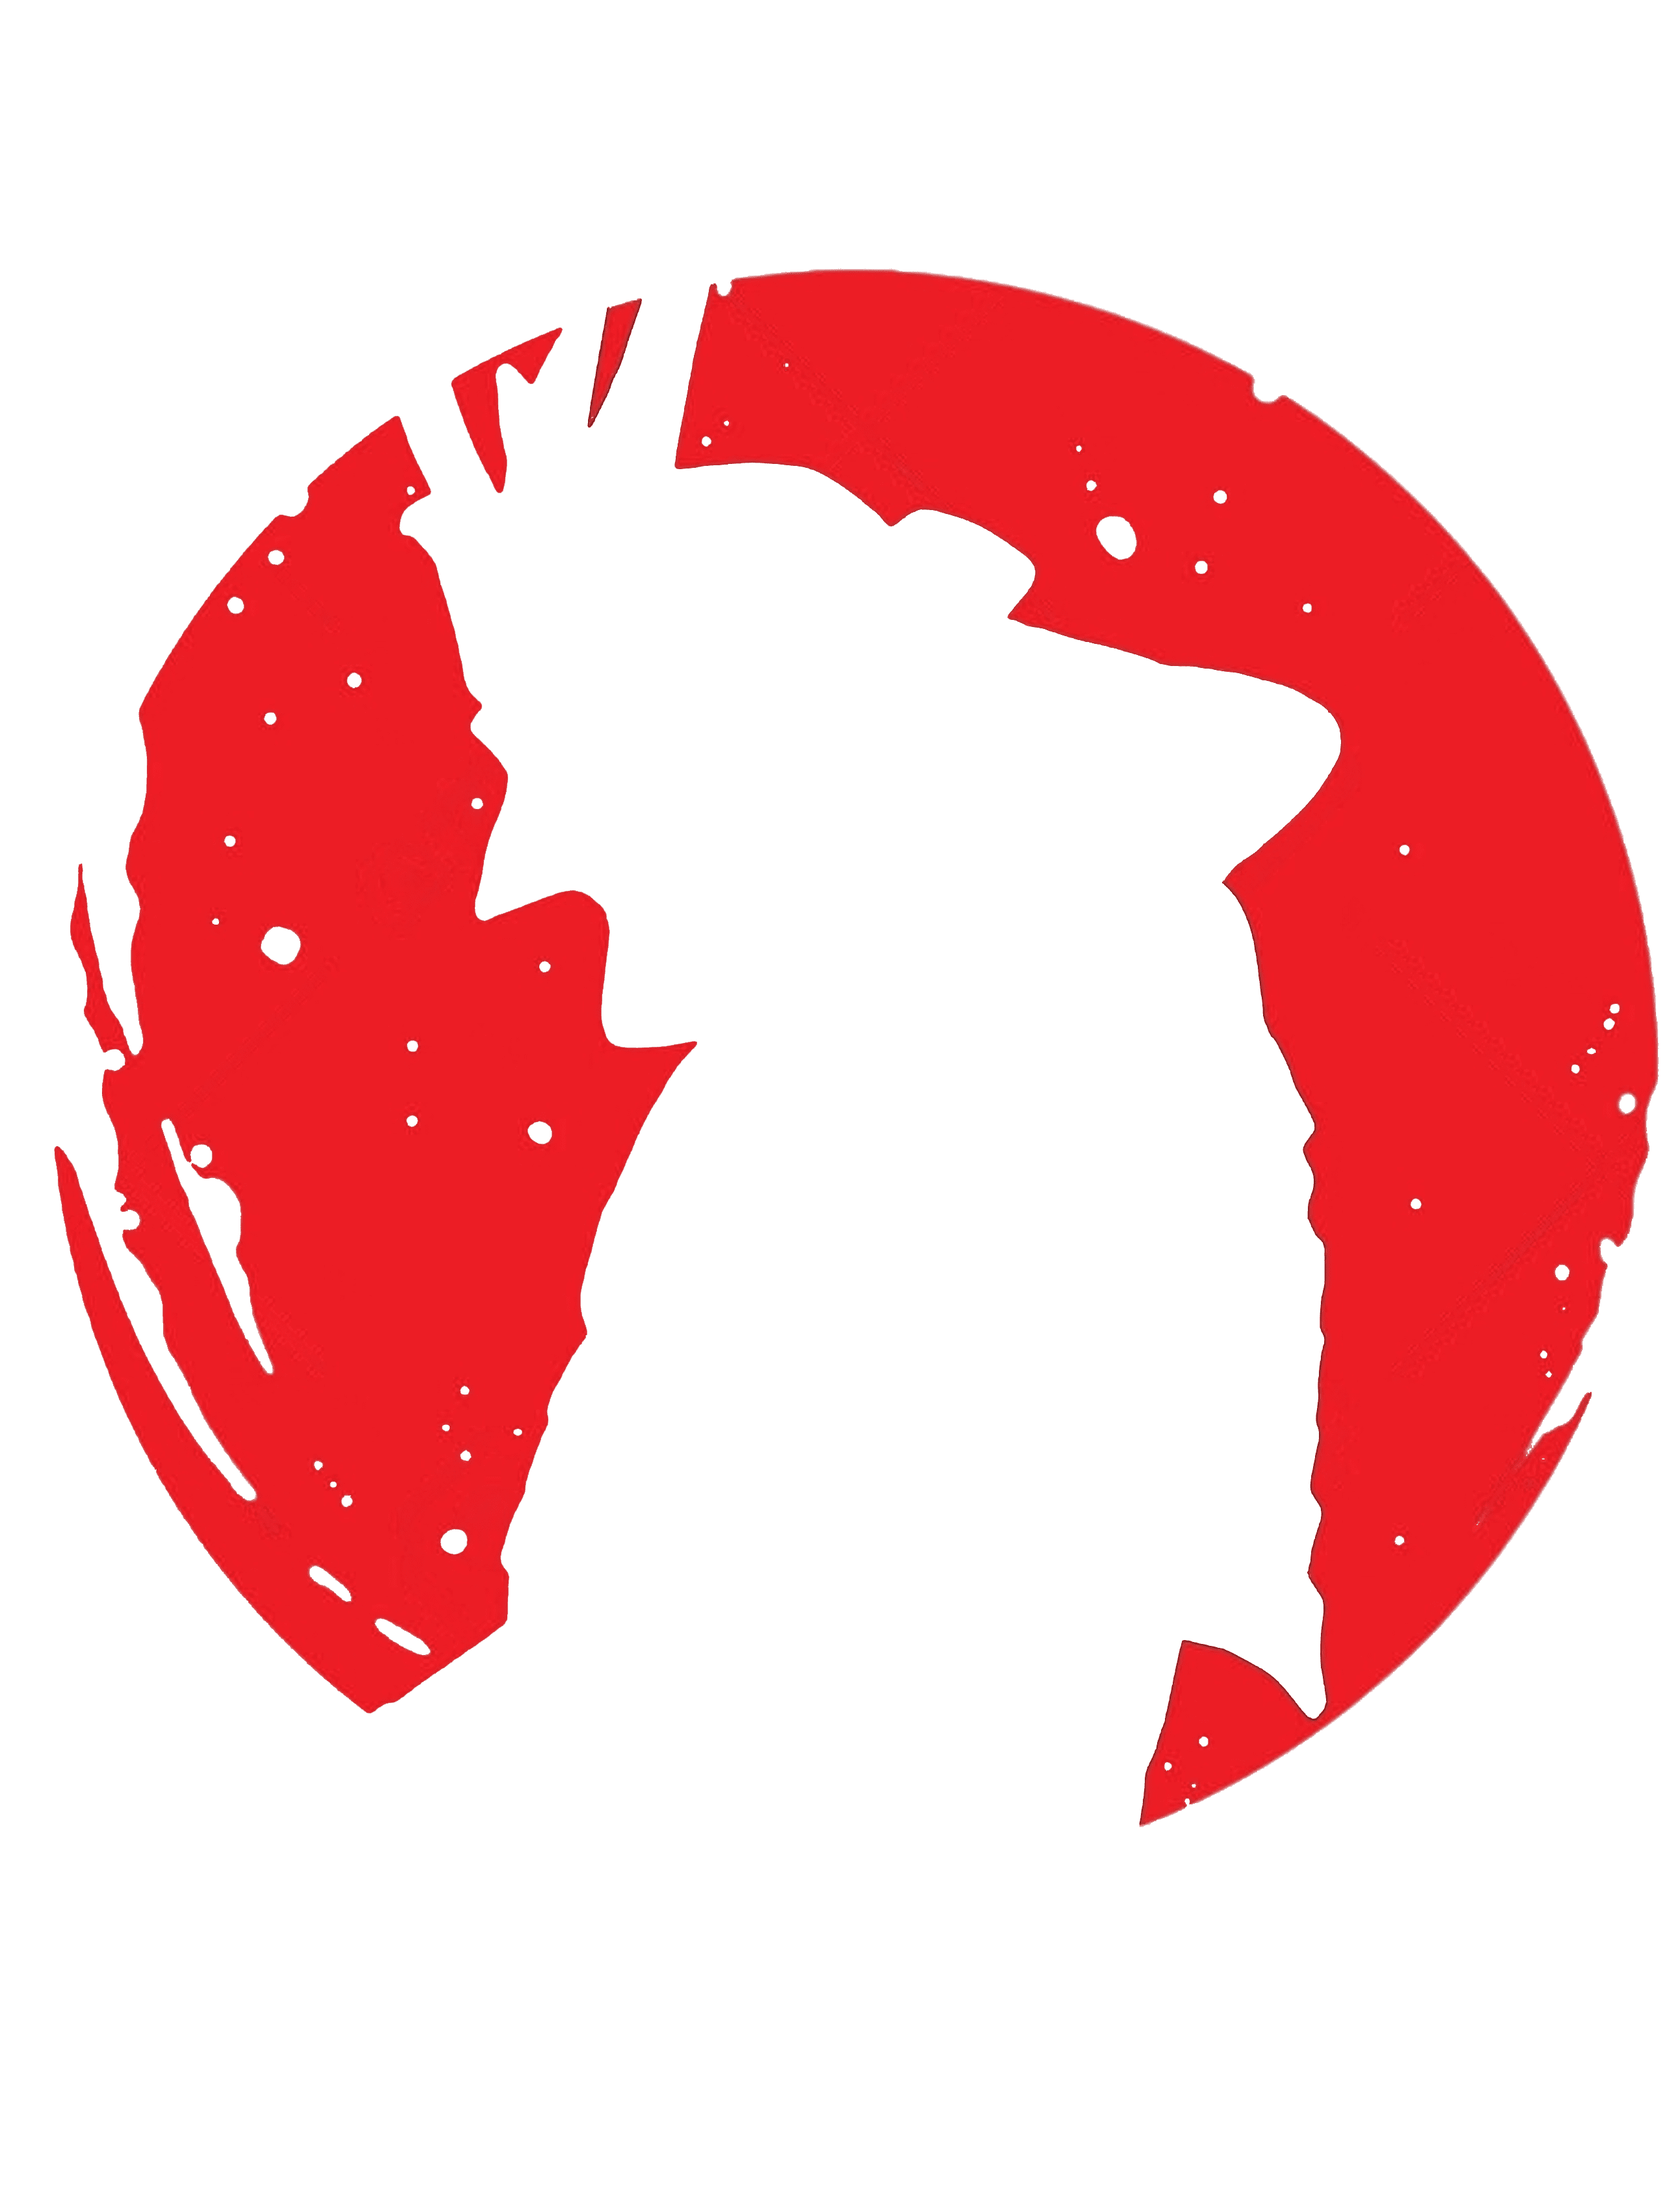
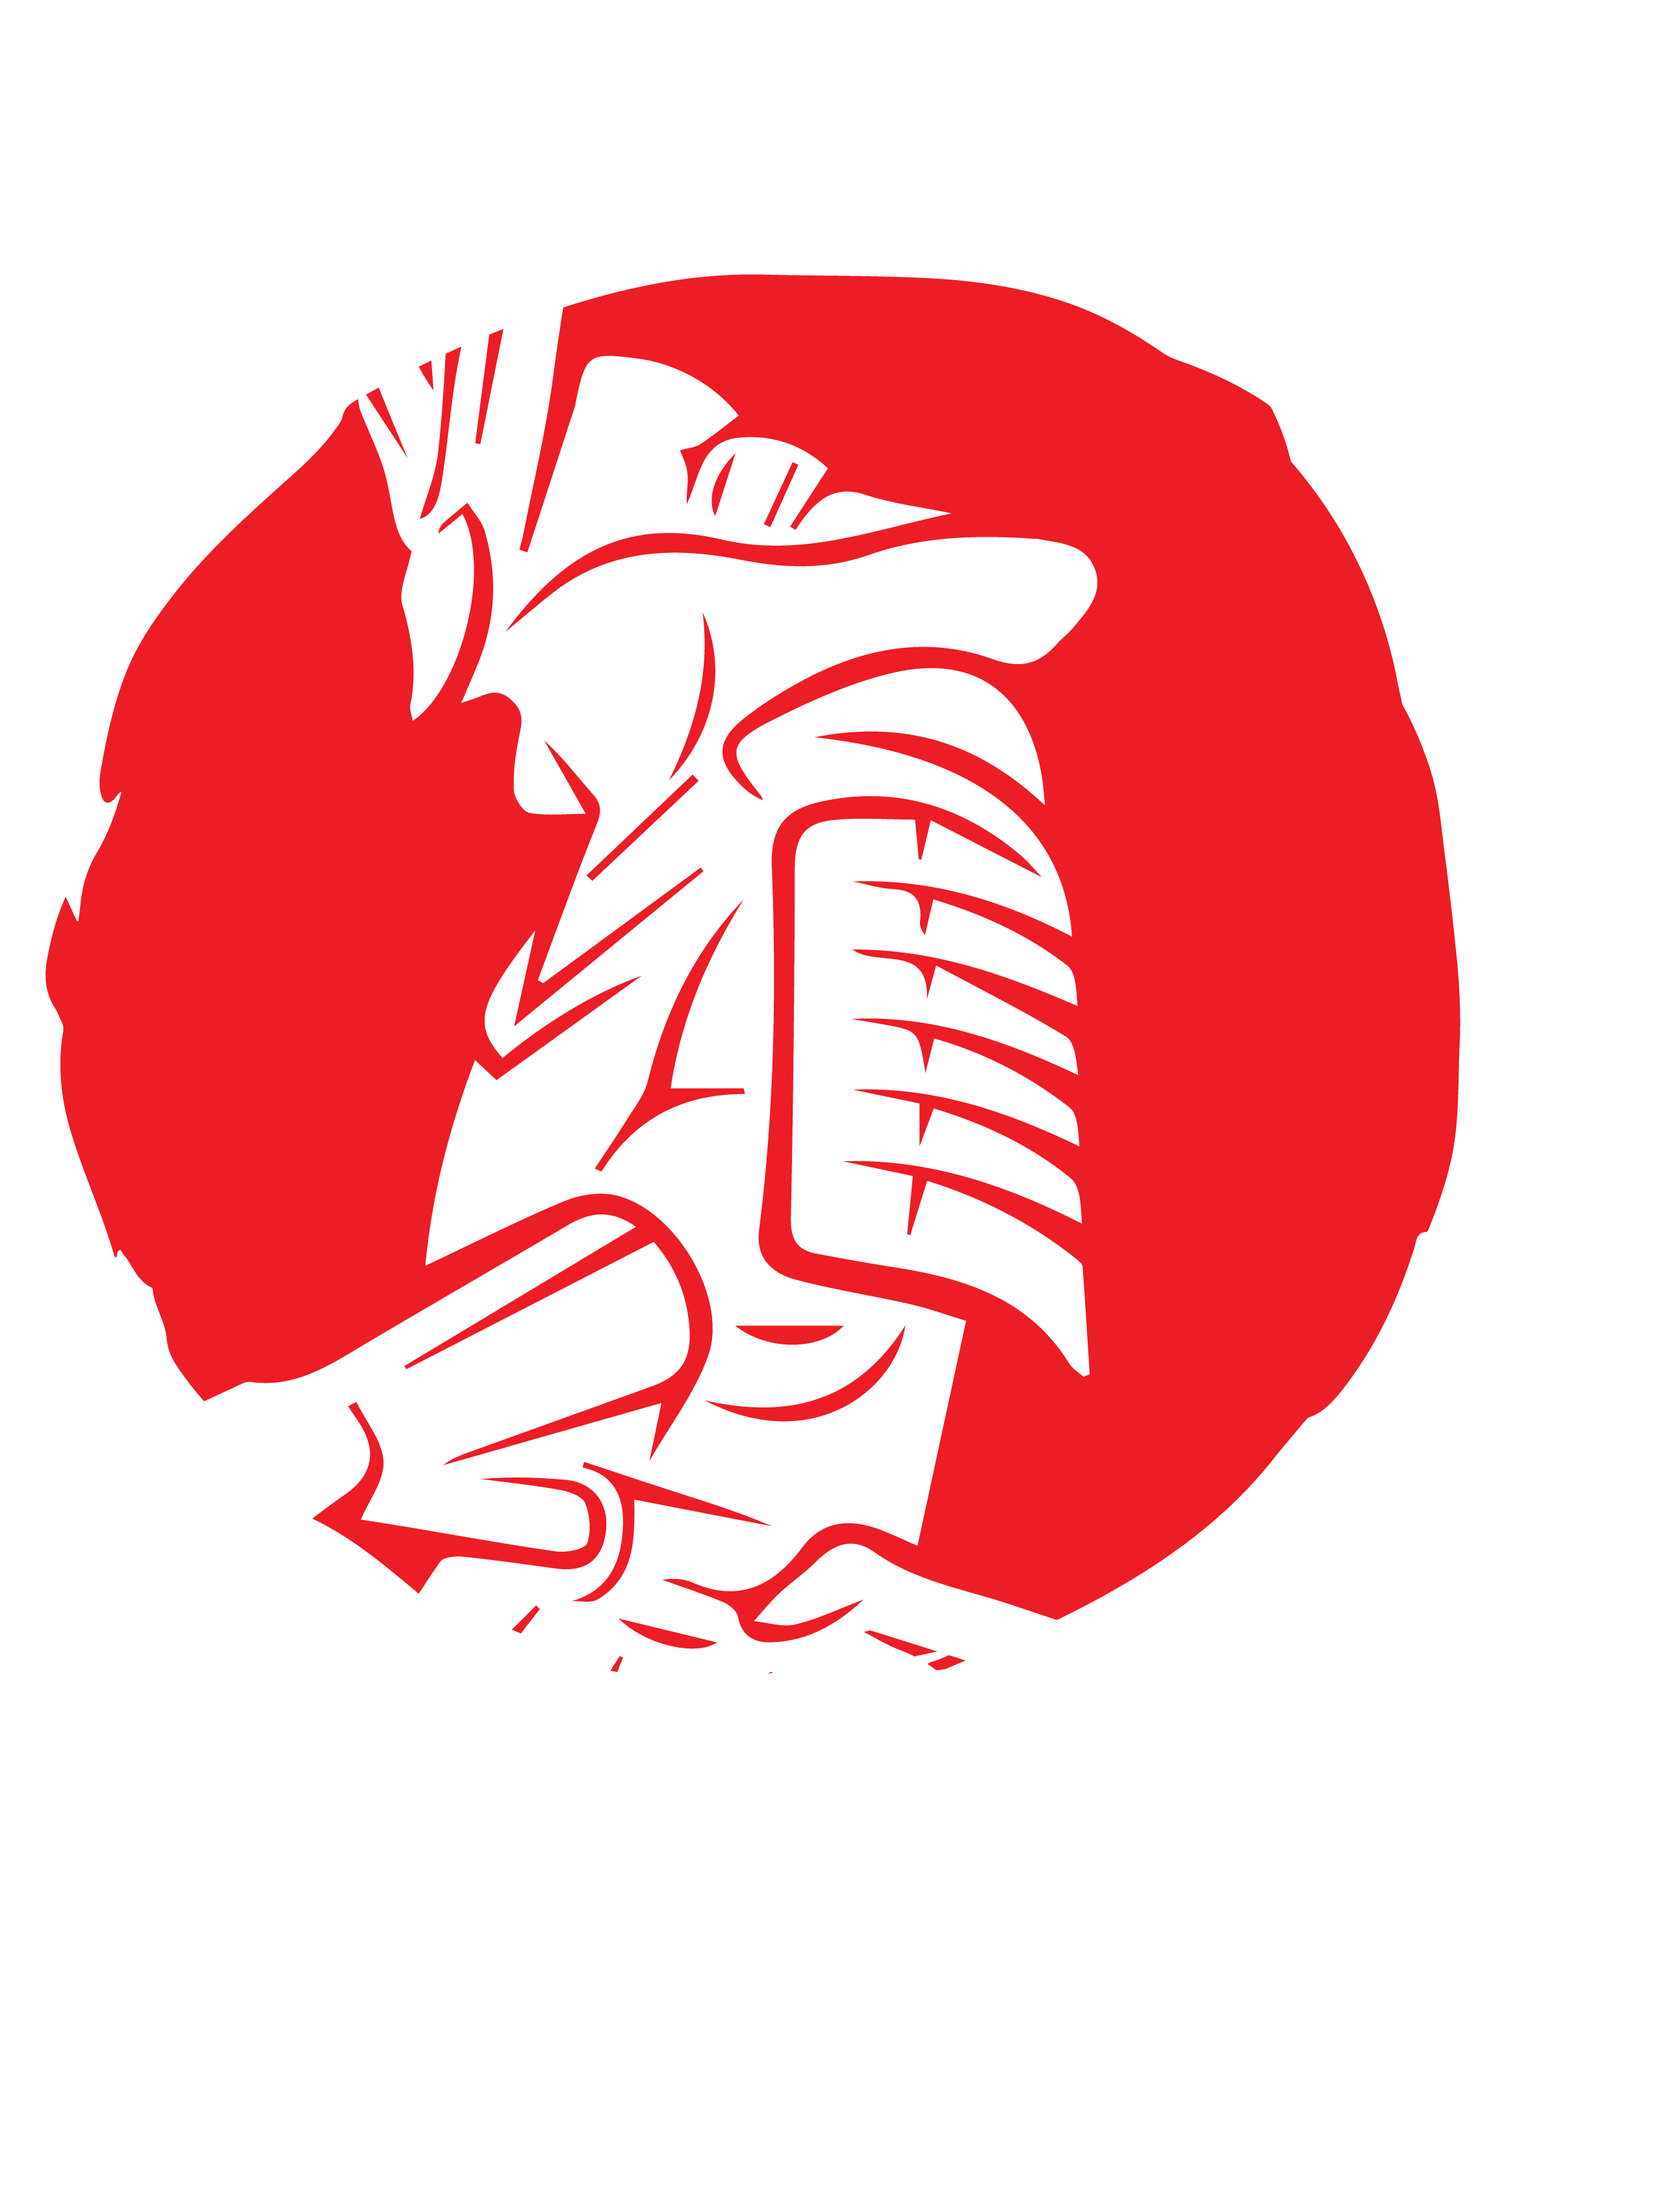
samurai replace

Changed region(s): [[0.0311, 0.1244, 0.9942, 0.84], [0.5282, 0.7467, 0.5592, 0.7778], [0.1553, 0.4044, 0.1864, 0.4356]]

diff --git a/src/Components/Footer.jsx b/src/Components/Footer.jsx
@@ -35,7 +35,7 @@ export const Footer = () => {
           <hr className='hrFooter hr2' />
         </div>
         <div className=''>
-          <p className='pFooter'>© {year} Your Company. All rights reserved.</p>
+          <p className='pFooter'>© {year} Lorenzo. All rights reserved.</p>
         </div>
       </div>
     </footer>

diff --git a/src/index.css b/src/index.css
@@ -3,7 +3,7 @@
 :root {
     --piel: #F6DEBF;
     --pielDesvanecido: #f6debfa8;
-    --negro: #000000;
+    --negro: #080808;
     --negroOpa: #000000de;
     --blanco: #ffffff;
     --blancoLink: #fff;
